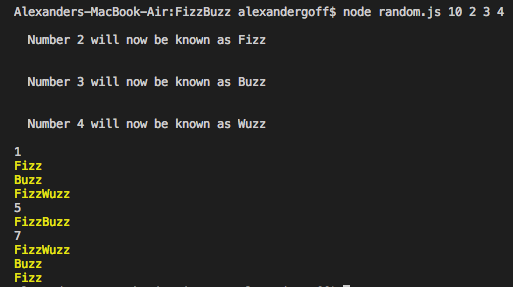
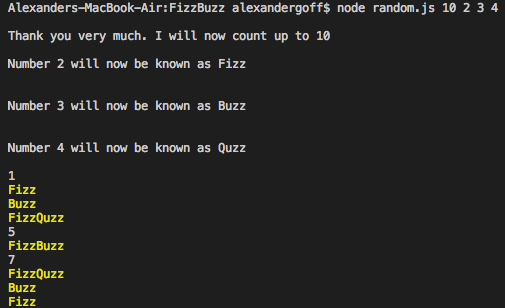
Added count to sentence on initiation of script

diff --git a/random.js b/random.js
@@ -3,6 +3,9 @@ const numberOfBadNames = parseInt(takenNames.length);
 const givenNumber = process.argv;
 const topNumber = parseInt(process.argv[2]) +1;
 
+console.log(`
+Thank you very much. I will now count up to `+(topNumber-1))
+
 
 //Check if the name is already reserved
 const nameOk = name => {
@@ -62,9 +65,8 @@ for (j = 3; givenNumber[j]; j++) {
   //Add name to list
   takenNames.push(name);
 
-  console.log(
-    `
-  Number ` +
+  console.log(`
+Number ` +
       process.argv[j] +
       ` will now be known as ` +
       name +
